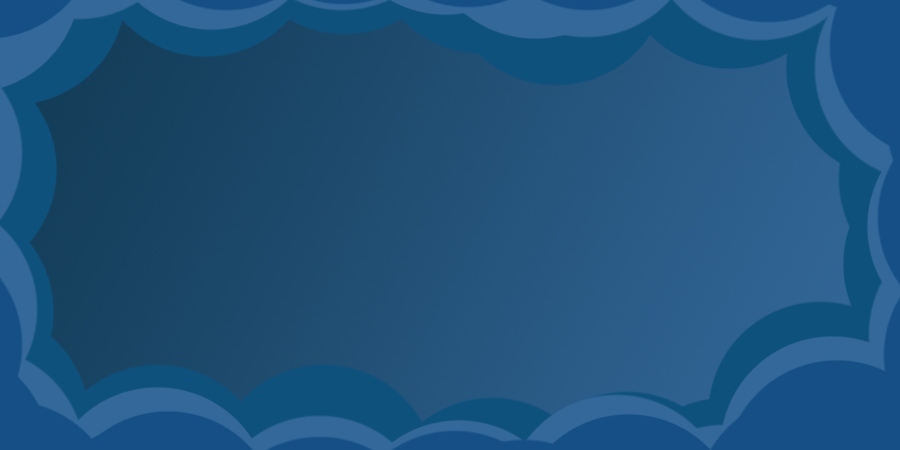
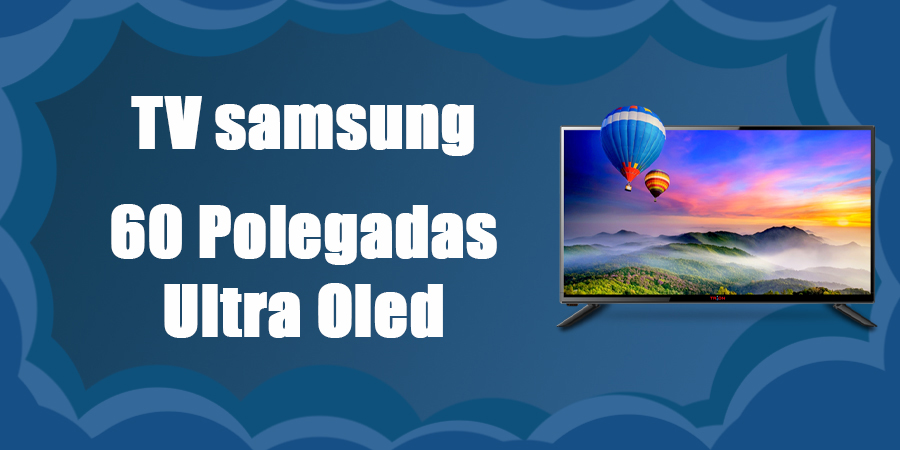
mobile reajus

diff --git a/estilos/style.css b/estilos/style.css
@@ -35,6 +35,7 @@ header a:hover{
     transition: 0.4s;
 }
 header > div.icon > span{
+    cursor: pointer;
     font-size: 2.3em;
     width: 50px;
     margin: 30px 0px;
@@ -42,12 +43,11 @@ header > div.icon > span{
 
 }
 section.inicio{
-    background-color: rgb(3, 68, 132);
-    text-align: center;
+    background: url("../imagens/Sem\ Título-1.jpg") fixed;
 }
  .img1{
-    width: 90%;
-    height: 500px;
+    width: 100%;
+    height: 400px;
 }
 .img2{
    display: none;
@@ -59,12 +59,12 @@ section.inicio{
     flex-wrap: wrap;
     
 }#produtos img{
-    width: 160px;
+    width: 150px;
     height: 160px;
     padding: 10px;
 }
 #produto{
-    width: 190px;
+    width: 200px;
     margin: 20px 10px 0px 10px;
     border-radius: 10px;
     border: 2px solid #0557aa;
@@ -94,4 +94,12 @@ section.inicio{
 .preço{
     font-size: 1.4em;
     text-align: center;
+}
+#apresentaçao-tv{
+    margin-top: 45px;
+    height: 350px;
+}
+#apresentaçao-tv img{
+    width: 100%;
+
 }

diff --git a/estilos/medai-query.css b/estilos/medai-query.css
@@ -1,6 +1,6 @@
 @charset "UTF-8";
 
-@media screen and (max-width: 667px) {
+@media screen and (max-width: 695px) {
 div.p3{
     display: none;
     width: 300px;
@@ -12,13 +12,12 @@ div.p3{
         margin-right: 50px;
     }
 }
-    @media screen and (min-width: 765px) and (max-width: 1000px) {
+    @media screen and (min-width: 700px) and (max-width: 1000px) {
         section.inicio{
-            background: url("../imagens/fundo-junto.jpg");
+            background: url("../imagens/fundo-junto.jpg") no-repeat;
             background-size: cover;
-
             width: 100%;
-            height: 500px;
+            height: 450px;
         }
         .img1{
           display: none;  

diff --git a/index.html b/index.html
@@ -33,7 +33,8 @@
         <!-- apresentaçao da marca -->
        <section class="inicio">
         <!-- aqui tem a imagem do logo -->
-        <img src="imagens/logo.png" alt="logo da marca" class="img1">
+        <img src="imagens/imagem-cll.png" alt="logo da marca" class="img1">
+
         <img src="imagens/fundo-junto.jpg" alt="logo para tablet" class="img2">
        </section>
 
@@ -146,8 +147,8 @@
        </section>
 
 
-       <section id="apresentaçao">
-            <img src="imagens/" alt="">
+       <section id="apresentaçao-tv">
+            <img src="imagens/tv.jpg" alt="">
        </section>
     </main>
 </body>
